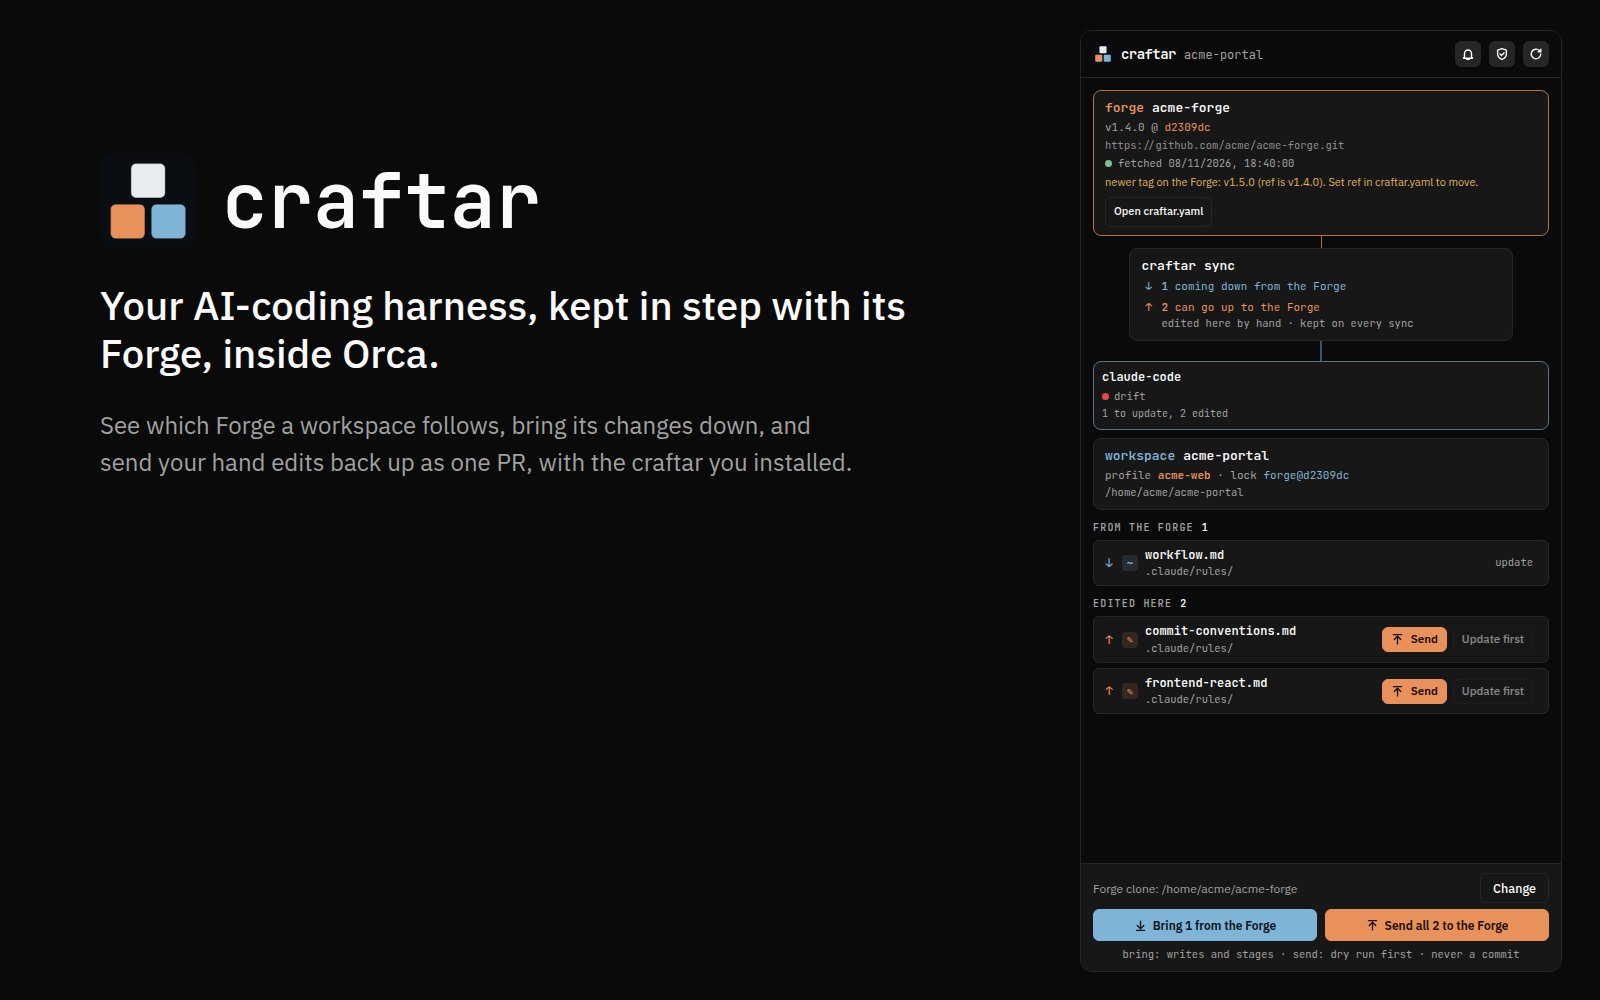
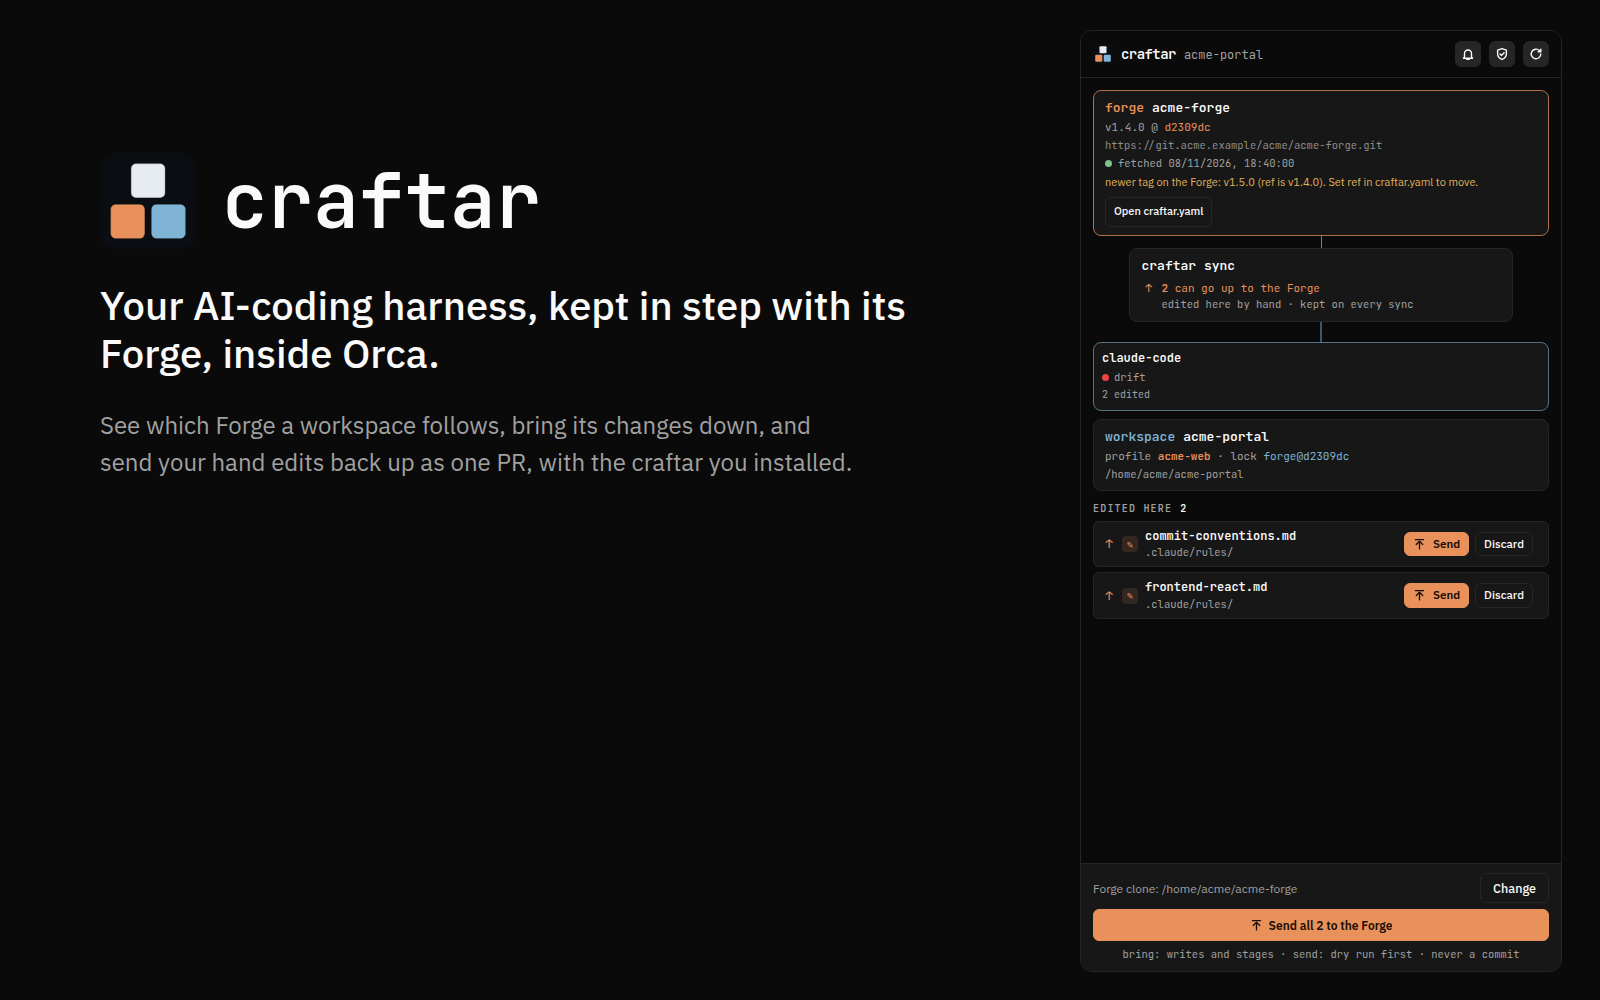
chore(catalog): a clearly synthetic Forge host, no cut row, how to redraw
Review nits: the Forge URL is on git.acme.example, the first screenshot and the
cover show the two edited files whole, and the README says how the images are
drawn.

diff --git a/README.md b/README.md
@@ -232,7 +232,9 @@ orca-ide plugin inspect .
 Examples, screenshots and fixtures use a synthetic `acme` workspace only.
 The catalog images (`assets/cover.png`, `assets/screenshots/`) are the plugin's own panel, drawn by its renderer
 (`src/panel-view.ts`) and stylesheet (`src/panel.ts`) on synthetic `acme` data, with Orca's dark theme values, in a browser outside
-Orca (the Orca this is built in lists client workspaces, so no `plugin shot` is taken). Redraw them when the panel changes.
+Orca (the Orca this is built in lists client workspaces, so no `plugin shot` is taken): a throwaway test calls `render` with
+`buildModel` over the fixtures in `test-support/fixtures/` (an `acme-portal` workspace on `git.acme.example`), writes each scene's HTML
+with the panel's `STYLE`, and `google-chrome --headless --screenshot` takes it at 1600x1000 or 1280x800. Redraw them when the panel changes.
 
 ## License
 
